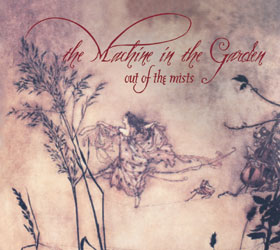
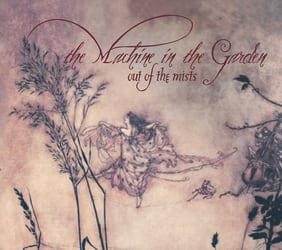
improved cover art

diff --git a/mists.php b/mists.php
@@ -4,11 +4,11 @@
 	'og:upc'=>'685879999428',
 	'og:url'=>'https://www.tmitg.com/mists.php',
 	'og:description'=>'the Machine in the Garden \'Out of the Mists\' is the band\'s fourth studio album.',
-	'og:image'=>'https://www.tmitg.com/albums/mists700.jpg',
+	'og:image'=>'https://www.tmitg.com/albums/mistsOG.jpg',
 	'og:image:alt'=>'Album cover artwork for the Machine in the Garden Out of the Mists',
 	'og:image:type'=>'image/jpeg',
-	'og:image:width'=>'700',
-	'og:image:height'=>'700',
+	'og:image:width'=>'1200',
+	'og:image:height'=>'1063',
 ); ?>
 <!DOCTYPE html>
 <html	lang="en" 
@@ -58,7 +58,12 @@
 
 <!-- this is the display table for the CD and info -->
 <section id="discog_albuminfo" tabindex="-1">
-	<div><img src="albums/mists.jpg" width="280" height="250" alt="Out of the Mists (2000) album cover — the Machine in the Garden" class="albumimg" itemprop="image" /></div>
+	<div>
+		<picture>
+			<source srcset="albums/mists500.jpg 2x">
+				<img src="albums/mists.jpg" width="282" height="250" alt="Out of the Mists (2000) album cover — the Machine in the Garden" class="albumimg" itemprop="image" />
+		</picture>
+	</div>
 	<h1 itemprop="name">Out of the Mists</h1>
 	<p itemprop="abstract"><em>A journey through the many facets of the band, exploring classical, electronic, goth, and ethereal genres. Out of the Mists is both visually and musically rich, a stunning tour de force encompassing the band's emotional edge.</em></p>
 

diff --git a/music.php b/music.php
@@ -292,7 +292,7 @@
 
 	<div class="songs ootm" id="ootm" role="tabpanel" tabindex="0" aria-labelledby="ootmtab">
 		<div class="albumcol">
-			<p><a href="mists.php"><img src="albums/mists.jpg" width="224" height="200" class="cover" alt="more information about Out of the Mists"></a></p>
+			<p><a href="mists.php"><img src="albums/mists.jpg" width="226" height="200" class="cover" alt="more information about Out of the Mists"></a></p>
 		</div>
 		<div class="listwrap">
 			<div class="audiocol">
